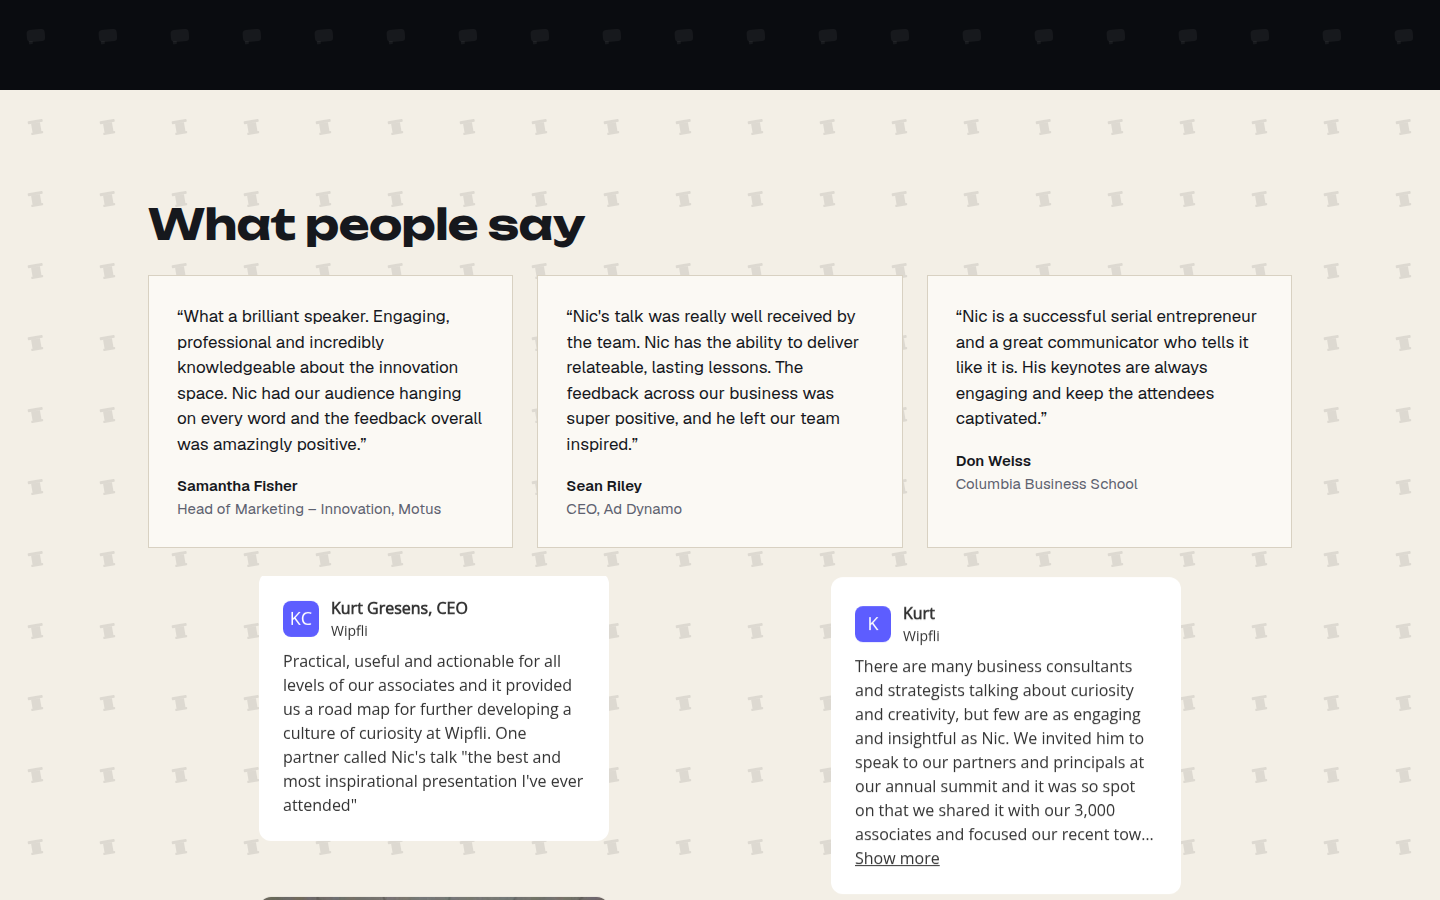
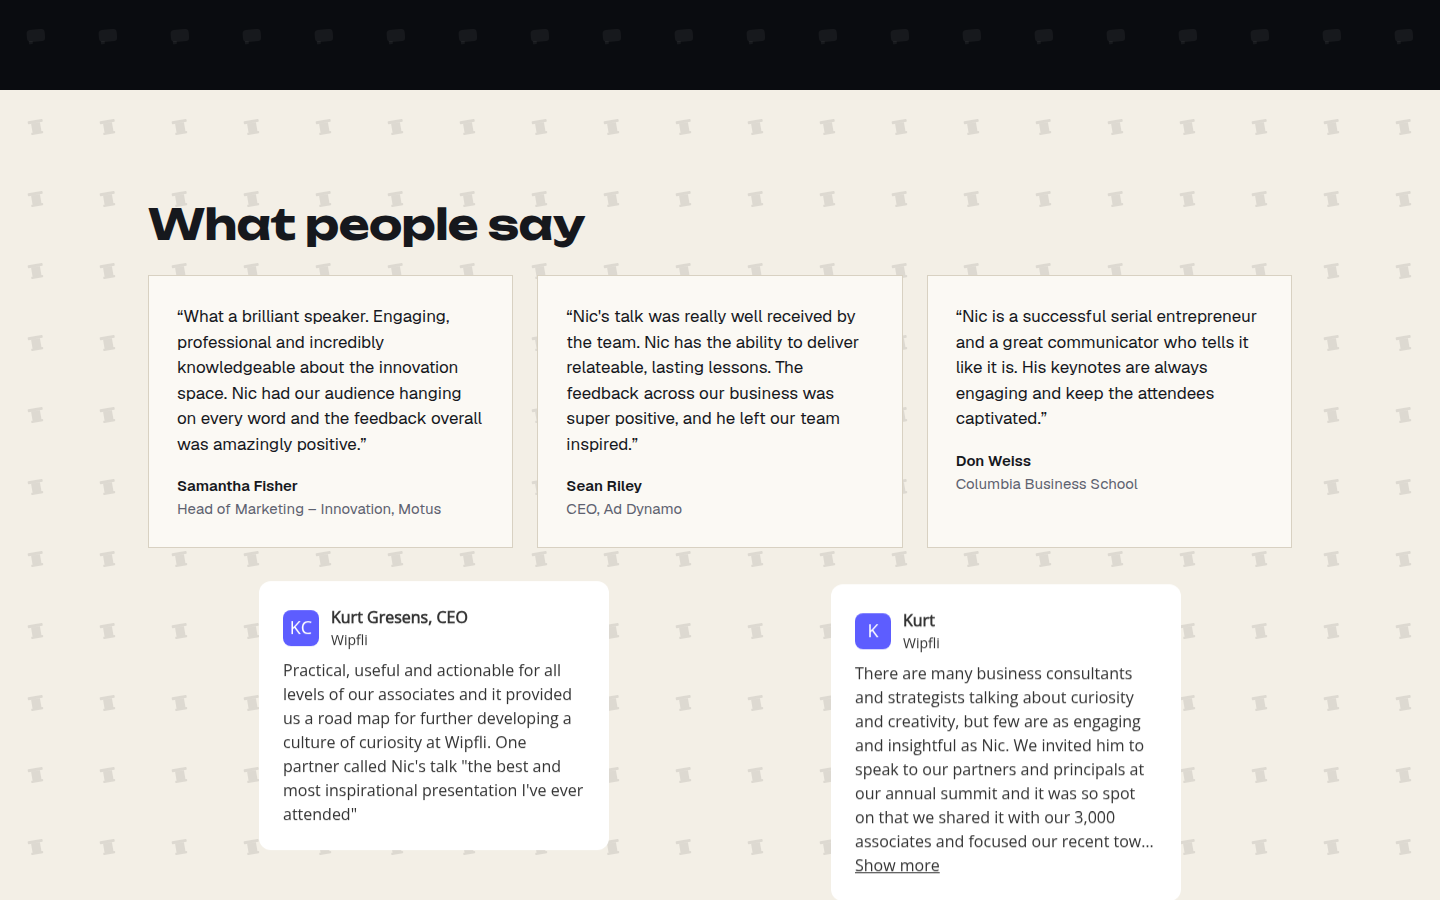
Reshoot the r15 section after webfonts have loaded.
The closed-state shots were taken on DOMContentLoaded, while Unbounded and Geist were still on their Arial fallbacks. The shoot script now waits for document.fonts.ready.

Changed region(s): [[0.5625, 0.6222, 0.8438, 1.0], [0.1875, 0.6222, 0.4375, 0.9644], [0.1875, 0.9956, 0.4375, 1.0]]

diff --git a/docs/qa/r15/INDEX.md b/docs/qa/r15/INDEX.md
@@ -1,24 +1,42 @@
 # r15 screenshots
 
-Native quote cards in the cream "What people say" section, with the Testimonial.to wall underneath only after cookie consent. No-consent shots are the whole section. Consent shots are the viewport, scrolled so the cards and the top of the wall are both in frame.
+Native quote cards in the cream "What people say" section. No-consent shots are the whole section. Consent shots are the viewport, scrolled so the cards and the top of the wall are both in frame.
 
-## Home `/`
+Each shot waits for `document.fonts.ready` and 250ms. The H2 family is `unbounded` (next/font's name for Unbounded), weight 700, and that face is loaded in every shot. `check('1em Unbounded')` asks for weight 400, which this family does not have, so it is false unless a nearby weight is already loaded. `check('700 1em unbounded')` is true in every shot. Card text is `NH Geist`, and that face is loaded in every shot. `check('1em Geist')` is true as well, but the cards use the `NH Geist` name.
 
-- 1440, no consent: docs/qa/r15/home-1440-no-consent.png
-- 1440, consent: docs/qa/r15/home-1440-consent.png
-- 360, no consent: docs/qa/r15/home-360-no-consent.png
-- 360, consent: docs/qa/r15/home-360-consent.png
-
-## Output Paradox `/keynotes/output-paradox-reengage-teams`
-
-- 1440, no consent: docs/qa/r15/output-paradox-1440-no-consent.png
-- 1440, consent: docs/qa/r15/output-paradox-1440-consent.png
-- 360, no consent: docs/qa/r15/output-paradox-360-no-consent.png
-- 360, consent: docs/qa/r15/output-paradox-360-consent.png
-
-## Session `/session`
-
-- 1440, no consent: docs/qa/r15/session-1440-no-consent.png
-- 1440, consent: docs/qa/r15/session-1440-consent.png
-- 360, no consent: docs/qa/r15/session-360-no-consent.png
-- 360, consent: docs/qa/r15/session-360-consent.png
+- / at 1440, no-consent: docs/qa/r15/home-1440-no-consent.png
+  - H2: `unbounded, "NH Unbounded Fallback", sans-serif`. unbounded 700: loaded. check('1em Unbounded') false. check('700 1em unbounded') true.
+  - Card: `"NH Geist", "NH Geist Fallback", sans-serif`. NH Geist: loaded. check('1em Geist') true. check('400 17px "NH Geist"') true.
+- / at 1440, consent: docs/qa/r15/home-1440-consent.png
+  - H2: `unbounded, "NH Unbounded Fallback", sans-serif`. unbounded 700: loaded. check('1em Unbounded') false. check('700 1em unbounded') true.
+  - Card: `"NH Geist", "NH Geist Fallback", sans-serif`. NH Geist: loaded. check('1em Geist') true. check('400 17px "NH Geist"') true.
+- / at 360, no-consent: docs/qa/r15/home-360-no-consent.png
+  - H2: `unbounded, "NH Unbounded Fallback", sans-serif`. unbounded 700: loaded. check('1em Unbounded') false. check('700 1em unbounded') true.
+  - Card: `"NH Geist", "NH Geist Fallback", sans-serif`. NH Geist: loaded. check('1em Geist') true. check('400 17px "NH Geist"') true.
+- / at 360, consent: docs/qa/r15/home-360-consent.png
+  - H2: `unbounded, "NH Unbounded Fallback", sans-serif`. unbounded 700: loaded. check('1em Unbounded') false. check('700 1em unbounded') true.
+  - Card: `"NH Geist", "NH Geist Fallback", sans-serif`. NH Geist: loaded. check('1em Geist') true. check('400 17px "NH Geist"') true.
+- /keynotes/output-paradox-reengage-teams at 1440, no-consent: docs/qa/r15/output-paradox-1440-no-consent.png
+  - H2: `unbounded, "NH Unbounded Fallback", sans-serif`. unbounded 700: loaded. check('1em Unbounded') true. check('700 1em unbounded') true.
+  - Card: `"NH Geist", "NH Geist Fallback", sans-serif`. NH Geist: loaded. check('1em Geist') true. check('400 17px "NH Geist"') true.
+- /keynotes/output-paradox-reengage-teams at 1440, consent: docs/qa/r15/output-paradox-1440-consent.png
+  - H2: `unbounded, "NH Unbounded Fallback", sans-serif`. unbounded 700: loaded. check('1em Unbounded') true. check('700 1em unbounded') true.
+  - Card: `"NH Geist", "NH Geist Fallback", sans-serif`. NH Geist: loaded. check('1em Geist') true. check('400 17px "NH Geist"') true.
+- /keynotes/output-paradox-reengage-teams at 360, no-consent: docs/qa/r15/output-paradox-360-no-consent.png
+  - H2: `unbounded, "NH Unbounded Fallback", sans-serif`. unbounded 700: loaded. check('1em Unbounded') true. check('700 1em unbounded') true.
+  - Card: `"NH Geist", "NH Geist Fallback", sans-serif`. NH Geist: loaded. check('1em Geist') true. check('400 17px "NH Geist"') true.
+- /keynotes/output-paradox-reengage-teams at 360, consent: docs/qa/r15/output-paradox-360-consent.png
+  - H2: `unbounded, "NH Unbounded Fallback", sans-serif`. unbounded 700: loaded. check('1em Unbounded') true. check('700 1em unbounded') true.
+  - Card: `"NH Geist", "NH Geist Fallback", sans-serif`. NH Geist: loaded. check('1em Geist') true. check('400 17px "NH Geist"') true.
+- /session at 1440, no-consent: docs/qa/r15/session-1440-no-consent.png
+  - H2: `unbounded, "NH Unbounded Fallback", sans-serif`. unbounded 700: loaded. check('1em Unbounded') false. check('700 1em unbounded') true.
+  - Card: `"NH Geist", "NH Geist Fallback", sans-serif`. NH Geist: loaded. check('1em Geist') true. check('400 17px "NH Geist"') true.
+- /session at 1440, consent: docs/qa/r15/session-1440-consent.png
+  - H2: `unbounded, "NH Unbounded Fallback", sans-serif`. unbounded 700: loaded. check('1em Unbounded') false. check('700 1em unbounded') true.
+  - Card: `"NH Geist", "NH Geist Fallback", sans-serif`. NH Geist: loaded. check('1em Geist') true. check('400 17px "NH Geist"') true.
+- /session at 360, no-consent: docs/qa/r15/session-360-no-consent.png
+  - H2: `unbounded, "NH Unbounded Fallback", sans-serif`. unbounded 700: loaded. check('1em Unbounded') false. check('700 1em unbounded') true.
+  - Card: `"NH Geist", "NH Geist Fallback", sans-serif`. NH Geist: loaded. check('1em Geist') true. check('400 17px "NH Geist"') true.
+- /session at 360, consent: docs/qa/r15/session-360-consent.png
+  - H2: `unbounded, "NH Unbounded Fallback", sans-serif`. unbounded 700: loaded. check('1em Unbounded') false. check('700 1em unbounded') true.
+  - Card: `"NH Geist", "NH Geist Fallback", sans-serif`. NH Geist: loaded. check('1em Geist') true. check('400 17px "NH Geist"') true.
